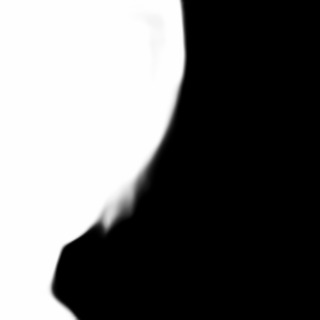
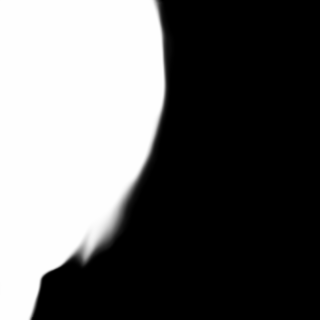
update images

Changed region(s): [[0.0938, 0.0, 0.5938, 1.0]]

diff --git a/chaos.py b/chaos.py
@@ -1,0 +1,52 @@
+import cv2 as cv
+import numpy as np
+
+from new_start import autoencoder
+from trimap_dict import trimap_init
+
+# python test.py -i "images/image.png" -t "images/trimap.png"
+if __name__ == '__main__':
+    img_rows, img_cols = 320, 320
+    channel = 4
+    trimap_init()
+
+    model_weights_path = 'models/model.48-0.03.hdf5'
+    model = autoencoder(img_rows, img_cols, channel)
+    model.load_weights(model_weights_path)
+    print(model.summary())
+
+    image_path = 'images/image_B.png'
+    trimap_path = 'images/trimap_B.png'
+    back_path = 'images/back_B.png'
+
+    print('Start processing image: {}'.format(image_path))
+
+    x_test = np.empty((1, img_rows, img_cols, 4), dtype=np.float32)
+    bgr_img = cv.imread(image_path)
+    trimap = cv.imread(trimap_path, 0)
+    back = cv.imread(back_path)
+
+    x, y = 300, 200
+    bgr_img = bgr_img[y:y + 320, x:x + 320, :]
+    trimap = trimap[y:y + 320, x:x + 320]
+    back = back[y:y + 320, x:x + 320, :]
+
+    x_test = np.empty((1, 320, 320, 4), dtype=np.float32)
+    x_test[0, :, :, 0:3] = bgr_img / 255.
+    x_test[0, :, :, 3] = trimap / 255.
+
+    alpha = model.predict(x_test)
+
+    merge = alpha[0] * bgr_img + (1 - alpha[0]) * back
+    print(merge.shape)
+    merge = np.reshape(merge, (320, 320, 3))
+
+    merge = merge.astype(np.uint8)
+
+    cv.imshow('merge_s', merge)
+    cv.imwrite('images/image_s.png', bgr_img)
+    cv.imwrite('images/trimap_s.png', trimap)
+    cv.imwrite('images/back_s.png', back)
+    cv.imwrite('images/out_s.png', merge)
+    cv.waitKey(0)
+    cv.destroyAllWindows()

diff --git a/demo.py b/demo.py
@@ -13,7 +13,7 @@ if __name__ == '__main__':
     channel = 4
     trimap_init()
 
-    model_weights_path = 'models/model.35-0.03.hdf5'
+    model_weights_path = 'models/model.48-0.03.hdf5'
     model = autoencoder(img_rows, img_cols, channel)
     model.load_weights(model_weights_path)
     print(model.summary())
